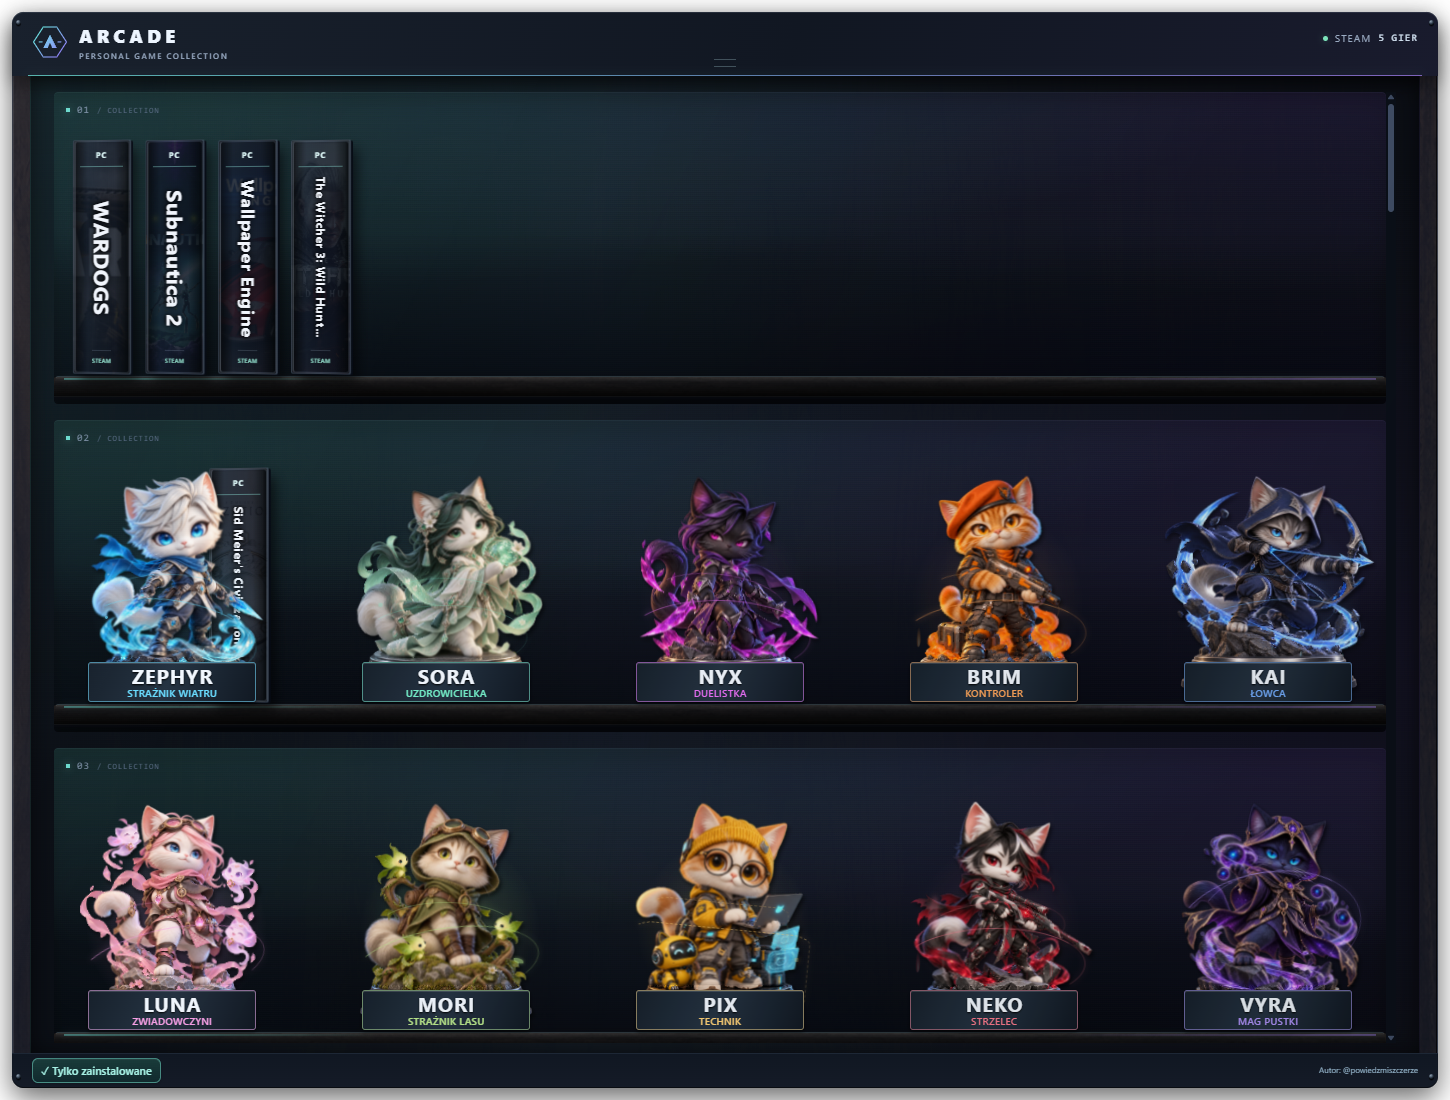
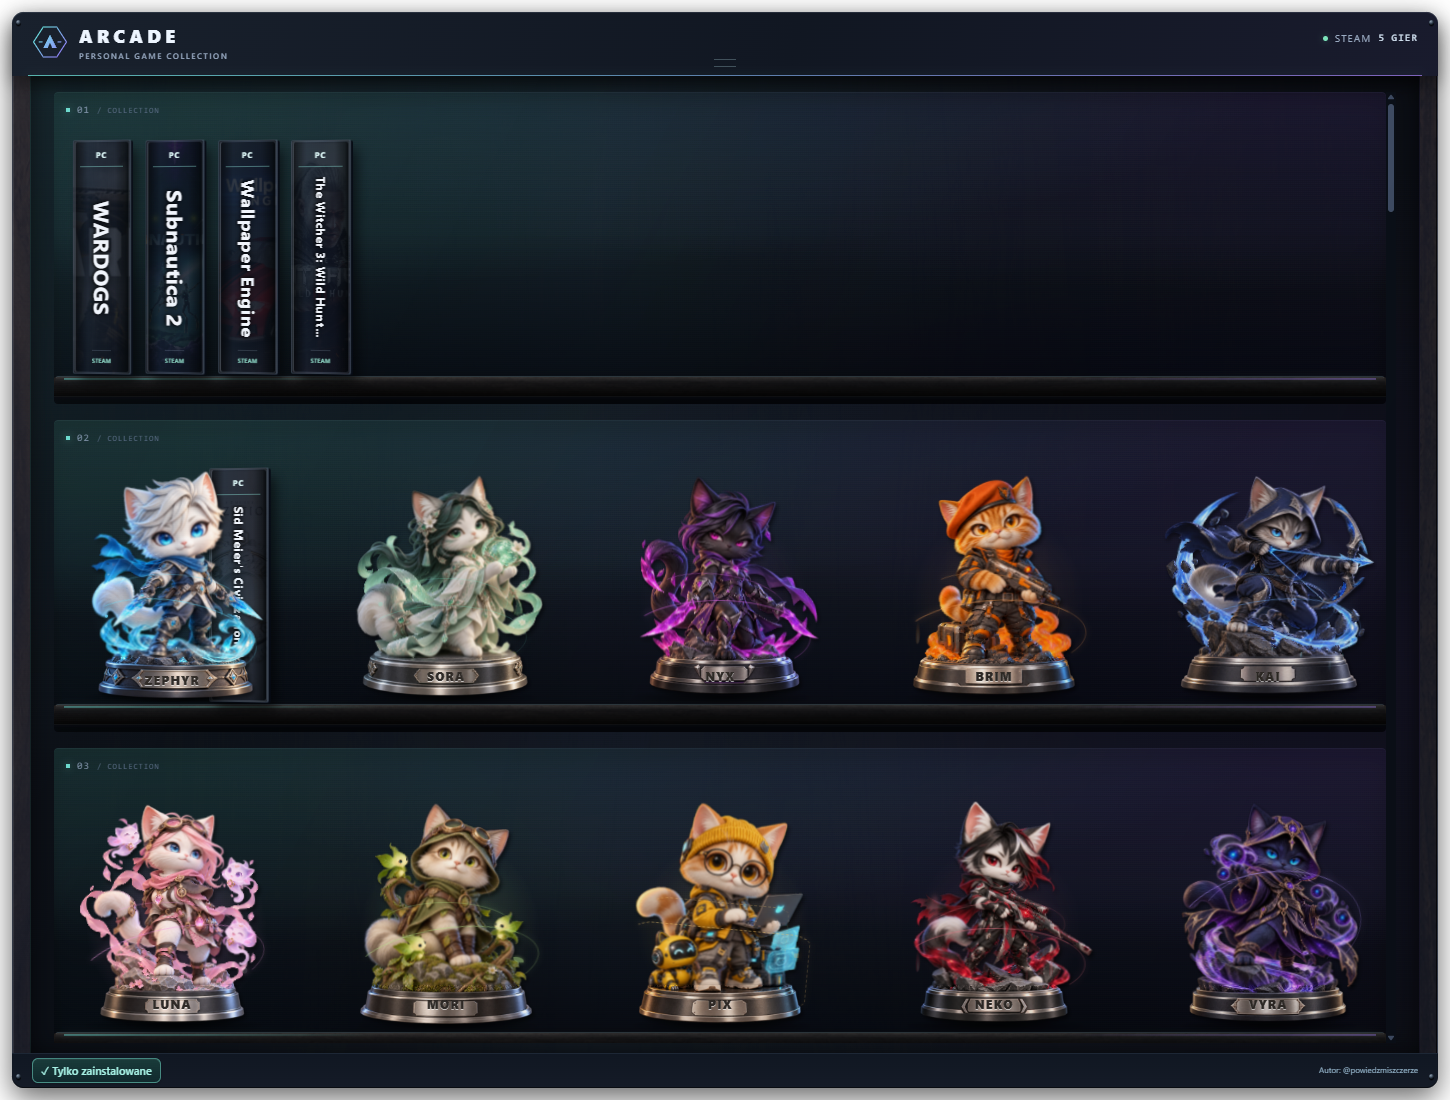
Show engraved figurine names in 0.13.1

diff --git a/README.md b/README.md
@@ -19,6 +19,12 @@ ARCADE zamienia listę gier w przestrzenną kolekcję pudełek na półkach. Ust
 
 <img src="docs/screenshots/gaming.png" alt="Widget ARCADE w motywie Gaming Night Shift — ciemna szafka, podświetlenie i pudełka gier Steam" width="650">
 
+## 0.13.1 — imiona grawerowane na podstawach
+
+- Na figurkach pozostają tylko imiona, bez podpisów ról.
+- Napisy znajdują się na metalowym froncie oryginalnej podstawy z efektem zagłębionego graweru.
+- Imiona poruszają się razem z podstawą; usunięte osobne prostokątne etykiety i ich wariant w motywie Szlak Wilka.
+
 ## 0.13.0 — półka bez petów i poprawiony Brim
 
 - Usunięte wszystkie pety, ich animacje, grafiki i opcje w menu.
@@ -86,7 +92,7 @@ Testy: import wielostronicowy, ukryte gry, zmiana konta, tryb offline, sprawdzen
 
 - Dziesięć figurek: Zephyr, Sora, Nyx, Brim, Kai, Luna, Mori, Pix, Neko i Vyra.
 - Subtelny ruch postaci przy nieruchomych podstawkach, animowane efekty dopasowane do żywiołu oraz krótka reakcja po kliknięciu podstawki.
-- Poprawione, równo wyśrodkowane tabliczki z nazwą i rolą; napisy pozostają proste podczas przechylania figurki.
+- Same imiona z efektem graweru na przedniej części metalowych podstawek. Napisy zachowują perspektywę podstawy.
 - Osobne przestawianie, zapisywanie i włączanie każdej figurki. Menu obok zegara pozwala pokazać lub ukryć cały zestaw.
 - Zachowane ustawienia Zephyra z poprzedniej wersji, układanie wielu figurek bez nachodzenia na siebie i skalowanie do 4K.
 
@@ -165,7 +171,7 @@ Na półce pozostaje jeden widok: **grzbiety z tytułami**. Widok okładek przod
 
 ## Instalator i Aurora Circuit
 
-Pobierz **ARCADE-Setup-0.13.0-win-x64.exe** z najnowszego wydania. Polski instalator dodaje skróty i wpis do odinstalowania; nie wymaga konta administratora. Opcjonalnie włącza start z Windows.
+Pobierz **ARCADE-Setup-0.13.1-win-x64.exe** z najnowszego wydania. Polski instalator dodaje skróty i wpis do odinstalowania; nie wymaga konta administratora. Opcjonalnie włącza start z Windows.
 
 **Aurora Circuit** to czwarty motyw: ruchome światło zorzy, delikatne cząsteczki, obwody oraz sygnały LED na półkach. Włączysz go przez **ikonę obok zegara → Motyw graficzny → Animowany · Aurora Circuit**. Animacje respektują systemowe ograniczenie ruchu i pauzują po ukryciu okna.
 
@@ -192,12 +198,12 @@ Większe pudełka i dopasowane do długości tytułów napisy. Przeciągnij gór
 
 ## Pobierz i uruchom
 
-1. Przejdź do **[Releases](https://github.com/codewojcik-arch/arcade-game-shelf/releases/latest)** i pobierz **ARCADE-Setup-0.13.0-win-x64.exe**.
+1. Przejdź do **[Releases](https://github.com/codewojcik-arch/arcade-game-shelf/releases/latest)** i pobierz **ARCADE-Setup-0.13.1-win-x64.exe**.
 2. Uruchom instalator, wybierz folder i opcjonalne skróty oraz autostart.
 3. Po instalacji uruchom **ARCADE** z menu Start lub pulpitu.
 4. Ustawienia, motywy, figurki i zamknięcie znajdziesz pod ikoną obok zegara Windows.
 
-Alternatywnie pobierz **ARCADE-0.13.0-win-x64.zip**, wypakuj cały folder i uruchom ARCADE.exe. Samo EXE wymaga pozostałych plików paczki. Instalator zachowuje lokalny folder cache podczas aktualizacji i odinstalowania; może zawierać ustawienia oraz zapisane połączenie Steam i sesję GOG. Możesz usunąć ten folder samodzielnie po odinstalowaniu.
+Alternatywnie pobierz **ARCADE-0.13.1-win-x64.zip**, wypakuj cały folder i uruchom ARCADE.exe. Samo EXE wymaga pozostałych plików paczki. Instalator zachowuje lokalny folder cache podczas aktualizacji i odinstalowania; może zawierać ustawienia oraz zapisane połączenie Steam i sesję GOG. Możesz usunąć ten folder samodzielnie po odinstalowaniu.
 
 **Wymagania:** Windows 10/11 64-bit, Steam i internet do pobrania okładek. Runtime jest dołączony — nie instalujesz osobno Node.js. Okna Full HD, 1440p i 4K są objęte testami układu. Instalator nie ma jeszcze komercyjnego podpisu cyfrowego; Windows może pokazać nieznanego wydawcę. Pobieraj z oficjalnego repozytorium.
 

diff --git a/CHANGELOG.md b/CHANGELOG.md
@@ -1,5 +1,12 @@
 # Historia zmian
 
+## 0.13.1 — imiona grawerowane na podstawach
+
+- Na figurkach pozostają tylko imiona, bez podpisów ról.
+- Napisy znajdują się na metalowym froncie oryginalnej podstawy z efektem zagłębionego graweru.
+- Imiona poruszają się razem z podstawą; usunięte osobne prostokątne etykiety i ich wariant w motywie Szlak Wilka.
+
+
 ## 0.13.0 — usunięcie petów i poprawka Brima
 
 - Całkowicie usunięte pety z półki, menu, kodu uruchomieniowego i paczki aplikacji.
